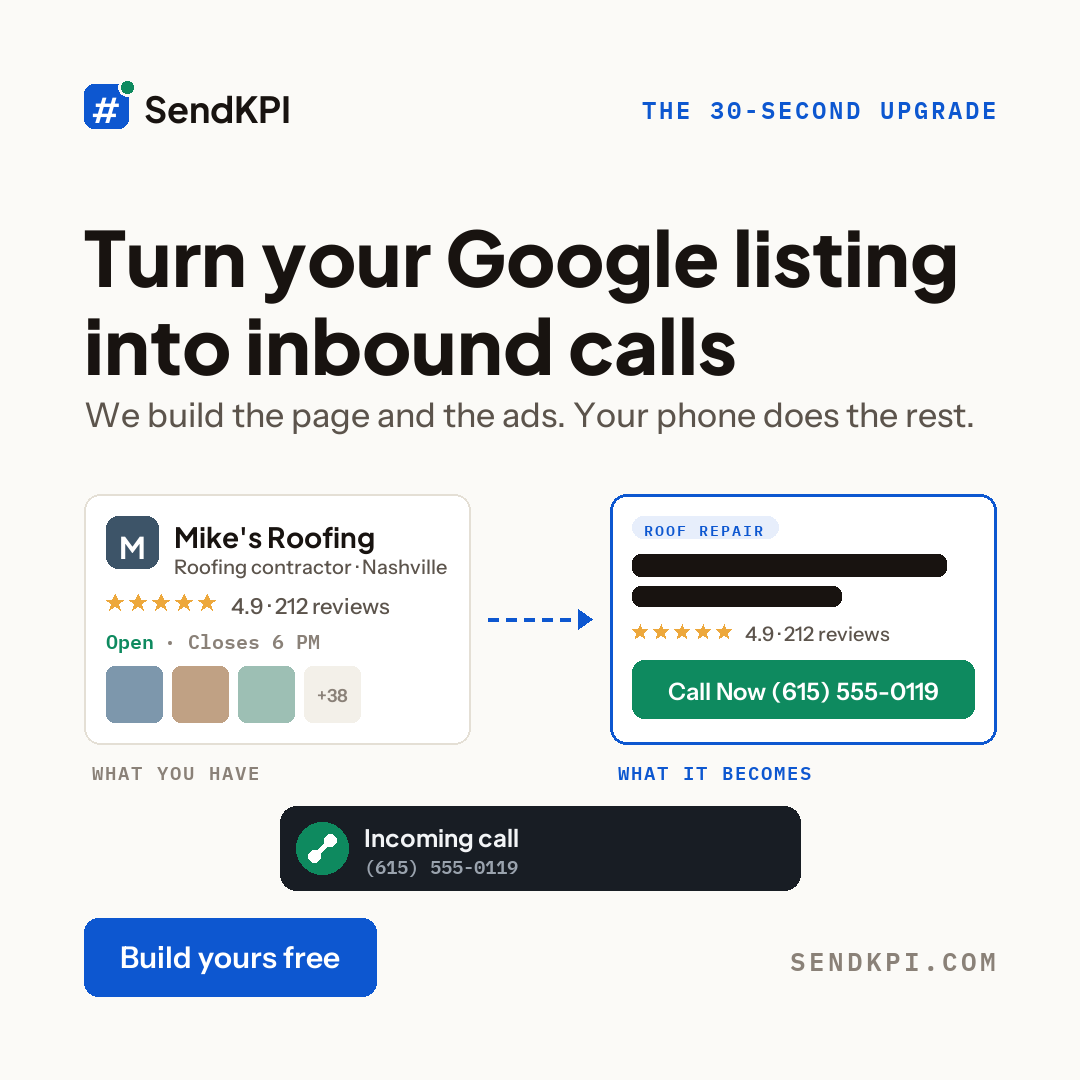
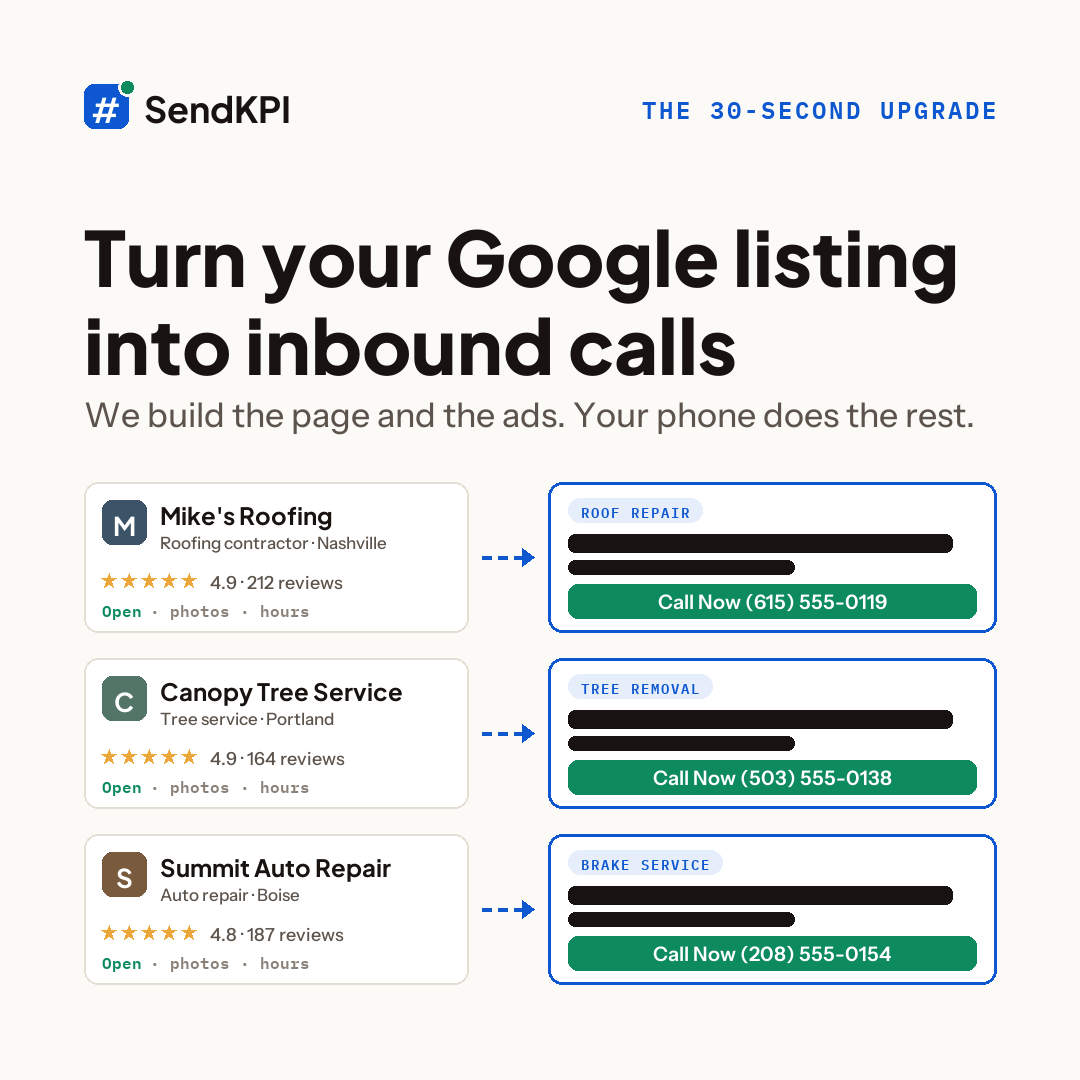
Rework concept D: three stacked listing-to-call-page transformations
Roofing, tree service, and auto repair rows, each with a mini Google
listing card and an arrow into its matching call page. CTA button,
incoming-call toast, and footer URL removed per feedback.

Changed region(s): [[0.0611, 0.4278, 0.9472, 0.9472], [0.4889, 0.6111, 0.5194, 0.6417]]

diff --git a/scripts/build_sendkpi_campaign_ads.py b/scripts/build_sendkpi_campaign_ads.py
@@ -358,50 +358,81 @@ def call_toast(d: ImageDraw.ImageDraw, x: int, y: int, w: int, label: str = "Inc
 
 
 def concept_d() -> Image.Image:
-    """The transformation: listing card -> build pill -> call page + toast."""
+    """The transformation, three trades deep: listing -> matching call page,
+    stacked for roofing, tree service, and auto repair. No CTA chrome; the
+    stack is the whole story."""
     im = Image.new("RGB", (S, S), PAPER)
     d = ImageDraw.Draw(im)
     y = head_block(d, "THE 30-SECOND UPGRADE",
                    "Turn your Google listing into inbound calls",
                    "We build the page and the ads. Your phone does the rest.")
 
-    top = y + 24
-    lw_card = 386
-    rw_card = 386
+    rows = [
+        {
+            "name": "Mike's Roofing", "cat": "Roofing contractor · Nashville",
+            "initial": "M", "tile": "#3D5468", "rating": "4.9 · 212 reviews",
+            "service": "ROOF REPAIR", "phone": "(615) 555-0119",
+        },
+        {
+            "name": "Canopy Tree Service", "cat": "Tree service · Portland",
+            "initial": "C", "tile": "#527568", "rating": "4.9 · 164 reviews",
+            "service": "TREE REMOVAL", "phone": "(503) 555-0138",
+        },
+        {
+            "name": "Summit Auto Repair", "cat": "Auto repair · Boise",
+            "initial": "S", "tile": "#7A5A3D", "rating": "4.8 · 187 reviews",
+            "service": "BRAKE SERVICE", "phone": "(208) 555-0154",
+        },
+    ]
+
+    row_h = 150
+    row_gap = 26
+    top = y + 12
+    lw_card = 384
+    rw_card = 448
     rx = S - M - rw_card
 
-    gbp_bottom = gbp_mini(d, M, top, lw_card)
-    spaced(d, (M + 8, gbp_bottom + 16), "WHAT YOU HAVE", mono(19), INK3, tracking=2)
+    for i, biz in enumerate(rows):
+        ry = top + i * (row_h + row_gap)
 
-    # arrow between cards: dashed line + chevron
-    ax0, ax1 = M + lw_card + 18, rx - 18
-    ay = top + 125
-    xx = ax0
-    while xx < ax1 - 14:
-        d.line([xx, ay, min(xx + 10, ax1 - 14), ay], fill=BLUE, width=4)
-        xx += 18
-    d.polygon([(ax1 - 14, ay - 10), (ax1, ay), (ax1 - 14, ay + 10)], fill=BLUE)
+        # left: mini listing card
+        d.rounded_rectangle([M, ry, M + lw_card, ry + row_h], radius=14, fill=CARD, outline=LINE, width=2)
+        d.rounded_rectangle([M + 18, ry + 18, M + 62, ry + 62], radius=10, fill=biz["tile"])
+        af = jakarta(26, 700)
+        aw = d.textlength(biz["initial"], font=af)
+        d.text((M + 40 - aw / 2, ry + 27), biz["initial"], font=af, fill="#fff")
+        d.text((M + 76, ry + 18), biz["name"], font=jakarta(24, 700), fill=INK)
+        d.text((M + 76, ry + 50), biz["cat"], font=instrument(17, 500), fill=INK2)
+        sx = stars(d, M + 18, ry + 92, size=15)
+        d.text((sx + 8, ry + 89), biz["rating"], font=instrument(18, 500), fill=INK2)
+        d.text((M + 18, ry + 118), "Open", font=mono(16), fill=GREEN)
+        ow = d.textlength("Open", font=mono(16))
+        d.text((M + 18 + ow + 8, ry + 118), "· photos · hours", font=mono(16), fill=INK3)
 
-    # right: call page mini
-    ch = 250
-    d.rounded_rectangle([rx, top, rx + rw_card, top + ch], radius=16, fill=CARD, outline=BLUE, width=3)
-    d.rounded_rectangle([rx + 22, top + 22, rx + 168, top + 44], radius=11, fill=BLUE_SOFT)
-    spaced(d, (rx + 34, top + 26), "ROOF REPAIR", mono(15), BLUE, tracking=2)
-    d.rounded_rectangle([rx + 22, top + 60, rx + rw_card - 50, top + 82], radius=8, fill=INK)
-    d.rounded_rectangle([rx + 22, top + 92, rx + int(rw_card * 0.6), top + 112], radius=8, fill=INK)
-    sx = stars(d, rx + 22, top + 130, size=16)
-    d.text((sx + 8, top + 127), "4.9 · 212 reviews", font=instrument(20, 500), fill=INK2)
-    d.rounded_rectangle([rx + 22, top + 166, rx + rw_card - 22, top + 224], radius=12, fill=GREEN)
-    ct = "Call Now (615) 555-0119"
-    cf = instrument(24, 600)
-    ctw = d.textlength(ct, font=cf)
-    d.text((rx + (rw_card - ctw) / 2, top + 182), ct, font=cf, fill="#fff")
-    spaced(d, (rx + 8, top + ch + 16), "WHAT IT BECOMES", mono(19), BLUE, tracking=2)
+        # arrow
+        ax0, ax1 = M + lw_card + 14, rx - 14
+        ay = ry + row_h // 2
+        xx = ax0
+        while xx < ax1 - 12:
+            d.line([xx, ay, min(xx + 9, ax1 - 12), ay], fill=BLUE, width=4)
+            xx += 16
+        d.polygon([(ax1 - 12, ay - 9), (ax1, ay), (ax1 - 12, ay + 9)], fill=BLUE)
 
-    # toast bridging the bottom
-    call_toast(d, (S - 520) // 2, top + ch + 62, 520)
+        # right: matching call page mini
+        d.rounded_rectangle([rx, ry, rx + rw_card, ry + row_h], radius=14, fill=CARD, outline=BLUE, width=3)
+        pill_f = mono(14)
+        pill_w = sum(d.textlength(ch, font=pill_f) for ch in biz["service"]) + 2 * (len(biz["service"]) - 1)
+        d.rounded_rectangle([rx + 20, ry + 16, rx + 20 + pill_w + 26, ry + 40], radius=12, fill=BLUE_SOFT)
+        spaced(d, (rx + 33, ry + 21), biz["service"], pill_f, BLUE, tracking=2)
+        d.rounded_rectangle([rx + 20, ry + 52, rx + rw_card - 44, ry + 70], radius=7, fill=INK)
+        d.rounded_rectangle([rx + 20, ry + 78, rx + int(rw_card * 0.55), ry + 92], radius=7, fill=INK)
+        d.rounded_rectangle([rx + 20, ry + 102, rx + rw_card - 20, ry + row_h - 14], radius=10, fill=GREEN)
+        ct = f"Call Now {biz['phone']}"
+        cf = instrument(20, 600)
+        ctw = d.textlength(ct, font=cf)
+        btn_mid = ry + 102 + (row_h - 14 - 102) / 2
+        d.text((rx + (rw_card - ctw) / 2, btn_mid - 12), ct, font=cf, fill="#fff")
 
-    cta_row(d)
     return im
 
 
